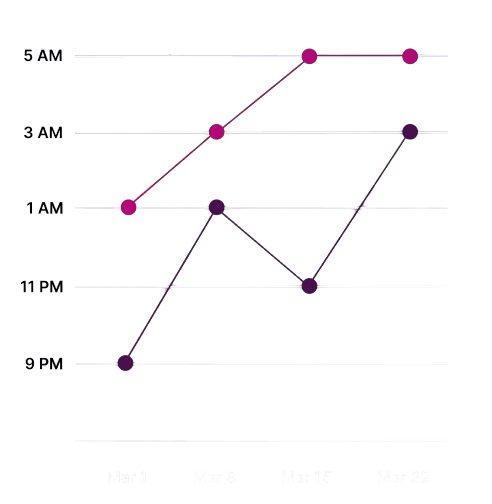
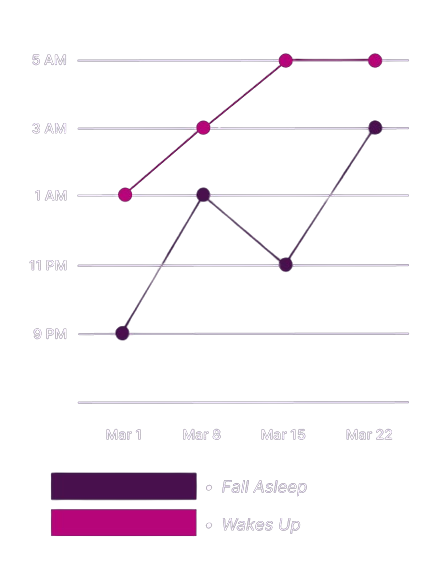
added month tracker

diff --git a/src/app/tracker2/tracker2.page.html b/src/app/tracker2/tracker2.page.html
@@ -4,5 +4,23 @@
   <br>
   <br>
 
+  <ion-button routerLink="/activity">
+    &lt;
+  </ion-button>
+
+  <ion-segment value="default">
+    <ion-segment-button value="default">
+      <ion-label>Week</ion-label>
+    </ion-segment-button>
+    <ion-segment-button value="segment" >
+      <ion-label>Month</ion-label>
+    </ion-segment-button>
+  </ion-segment>
+
+  <ion-card color="secondary">
+    <img src="assets/month.png">
+  </ion-card>
+
+
   </body>
 </ion-content>
